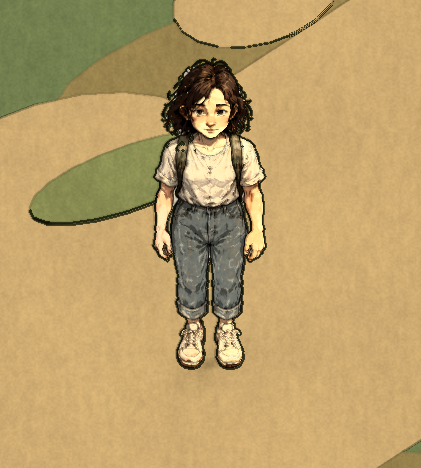
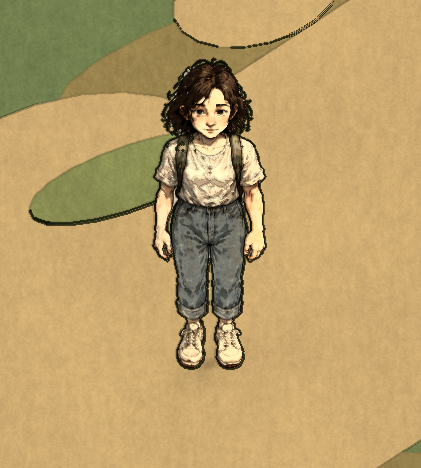
D-24 закрыта: кадры площади после перекраски front_0, D11HeroViewTests 17/17, D25MotionTests 14/14, критик ГОДИТСЯ (лист — круг 5, кадр — круг 3); стиль — один блок в style-bible (tools/art/style.py) во всех промптах, без запекания эффектов; d25_frames metrics: проскальзывание опоры, чередование ног

diff --git a/tools/art/d25_frames.py b/tools/art/d25_frames.py
@@ -8,7 +8,7 @@
     d25_frames.py sheet SHEET.png OUT [--n 8] [--stand 0]
         лист фаз (серый фон, маска keymask рядом): фигура stand — стоит (опора масштаба), остальные — фазы цикла;
         по горизонтали кадры выравниваются по корпусу (центр бёдер), по вертикали — по общей линии земли листа.
-    d25_frames.py metrics DIR [--label L]          # замер готовых кадров DIR/*.png (общий холст)
+    d25_frames.py metrics DIR [--label L] [--stride-m 1.7]   # замер готовых кадров DIR/*.png (общий холст) + проверки LIMITS
     d25_frames.py strip DIR OUT.png [--gif OUT.gif] # склейка на светлом/тёмном + GIF (12 к/с)
 
 Замер (на холсте 320 px/м): «опора» — (1) разброс по X центра корпуса (строки 30–55 % роста), (2) разброс по Y нижней
@@ -226,8 +226,29 @@ def load_dir(d):
     return fs, [np.asarray(Image.open(f).convert('RGBA')).astype(np.float32) / 255 for f in fs]
 
 
-def metrics(d, label=''):
+LIMITS = {  # пороги проверки набора до коммита (D-25 п. 2 и ref2game-review)
+    'hip_x_range_px': 2, 'ground_y_range_px': 2, 'slip_px_max': 2, 'half_iou_min': 0.7, 'limp_asym_max': 0.15, 'seam_ratio_max': 1.5}
+
+
+def feet(s):
+    """Опора кадра (бок, лицом вправо): x точки касания (середина нижних 2 % силуэта), разнос стоп (ширина нижних 6 %)."""
+    rows = np.where(s.any(1))[0]; h = rows[-1] - rows[0]
+    low = s[rows[-1] - max(2, int(0.02 * h)): rows[-1] + 1]
+    band = s[rows[-1] - int(0.06 * h): rows[-1] + 1]
+    xs, bx = np.where(low.any(0))[0], np.where(band.any(0))[0]
+    return float(xs.mean()), float(bx[-1] - bx[0])
+
+
+def metrics(d, label='', stride_m=None):
+    """Замер набора кадров цикла на общем холсте. Кроме опоры и IoU соседних:
+    проскальзывание — опорная стопа в игре должна уходить назад на stride·PPM/N px за кадр (персонаж идёт вперёд с этой
+      скоростью): |Δx + E| по парам опорных кадров одной стопы; фактическая длина цикла — по среднему уходу опоры;
+    чередование ног — IoU силуэтов кадров через полцикла (ноги меняются местами — силуэт сбоку почти тот же; «ходит одна
+      нога» даёт низкий IoU);
+    хромота — асимметрия наибольшего разноса стоп в первом и втором полуцикле;
+    шов цикла — (1 − IoU последнего и первого) к среднему (1 − IoU) соседних внутри цикла."""
     fs, fr = load_dir(d)
+    n = len(fr)
     sils = [silhouette(p) for p in fr]
     hip, low, heights = [], [], []
     for s in sils:
@@ -237,12 +258,34 @@ def metrics(d, label=''):
         hip.append(float(np.mean(np.where(band)[1])))
         low.append(int(rows[-1])); heights.append(int(h))
     med = np.median(low)
-    stance = [l for l in low if l >= med - 3]
-    ious = [iou(sils[i], sils[(i + 1) % len(sils)]) for i in range(len(sils))]
-    res = {'label': label, 'frames': len(fr), 'hip_x_range_px': round(max(hip) - min(hip), 1),
-           'ground_y_range_px': int(max(stance) - min(stance)), 'flight_frames': len(low) - len(stance),
+    st = [l >= med - 3 for l in low]
+    stance = [l for l, x in zip(low, st) if x]
+    ious = [iou(sils[i], sils[(i + 1) % n]) for i in range(n)]
+    res = {'label': label, 'frames': n, 'hip_x_range_px': round(max(hip) - min(hip), 1),
+           'ground_y_range_px': int(max(stance) - min(stance)), 'flight_frames': n - len(stance),
            'iou_adjacent_mean': round(float(np.mean(ious)), 3), 'iou_adjacent_min': round(float(min(ious)), 3),
            'iou_adjacent': [round(x, 3) for x in ious], 'height_px_range': [min(heights), max(heights)]}
+    cx, spread = zip(*[feet(s) for s in sils])
+    back = [cx[(i + 1) % n] - cx[i] for i in range(n) if st[i] and st[(i + 1) % n] and cx[(i + 1) % n] - cx[i] <= 0]
+    if back:
+        res['stance_back_px_per_frame'] = round(-float(np.mean(back)), 1)
+        res['cycle_m_from_feet'] = round(-float(np.mean(back)) * n / PPM, 2)
+        if stride_m:
+            e = stride_m * PPM / n
+            res['slip_px_mean'] = round(float(np.mean([abs(b + e) for b in back])), 1)
+            res['slip_px_max'] = round(float(max(abs(b + e) for b in back)), 1)
+    if n % 2 == 0:
+        res['half_iou_min'] = round(float(min(iou(sils[i], sils[(i + n // 2) % n]) for i in range(n))), 3)
+        a, b = max(spread[:n // 2]), max(spread[n // 2:])
+        res['limp_asym'] = round(abs(a - b) / ((a + b) / 2), 3)
+    inner = [1 - x for x in ious[:-1]]
+    res['seam_ratio'] = round((1 - ious[-1]) / max(1e-6, float(np.mean(inner))), 2)
+    checks = {}
+    for k, lim in LIMITS.items():
+        if k in res:
+            ok = res[k] >= lim if k.endswith('_min') else res[k] <= lim
+            checks[k] = 'ok' if ok else f'НЕТ ({res[k]} vs {lim})'
+    res['checks'] = checks
     (pathlib.Path(d) / 'metrics.json').write_text(json.dumps(res, ensure_ascii=False, indent=1), encoding='utf-8')
     print(json.dumps({k: v for k, v in res.items() if k != 'iou_adjacent'}, ensure_ascii=False))
     return res
@@ -279,11 +322,11 @@ def main():
     v.add_argument('--cycle-height-px', type=float, help='медиана роста кадров цикла, px при 320 px/м (если ролик не со стойки)')
     s = sub.add_parser('sheet'); s.add_argument('sheet'); s.add_argument('out'); s.add_argument('--n', type=int, default=8)
     s.add_argument('--stand', type=int, default=0); s.add_argument('--height-m', type=float, default=1.65); s.add_argument('--label')
-    m = sub.add_parser('metrics'); m.add_argument('dir'); m.add_argument('--label', default='')
+    m = sub.add_parser('metrics'); m.add_argument('dir'); m.add_argument('--label', default=''); m.add_argument('--stride-m', type=float, help='длина цикла в игре, м (characters.json strideMeters)')
     t = sub.add_parser('strip'); t.add_argument('dir'); t.add_argument('png'); t.add_argument('--gif')
     t.add_argument('--k', type=float, default=0.5); t.add_argument('--fps', type=float, default=12)
     a = ap.parse_args()
-    {'video': cmd_video, 'sheet': cmd_sheet, 'metrics': lambda a: metrics(a.dir, a.label), 'strip': cmd_strip}[a.cmd](a)
+    {'video': cmd_video, 'sheet': cmd_sheet, 'metrics': lambda a: metrics(a.dir, a.label, a.stride_m), 'strip': cmd_strip}[a.cmd](a)
 
 
 if __name__ == '__main__':

diff --git a/tools/art/d25_prompts.py b/tools/art/d25_prompts.py
@@ -1,0 +1,49 @@
+#!/usr/bin/env python3
+"""D-25: промпты роликов и кадров анимации — движение + дословный блок стиля из style-bible (`tools/art/style.py`).
+
+    d25_prompts.py              # переписать tools/art/d25/*.txt (кроме листа GPT — его собирает d24_heroine/gen_sheets)
+"""
+import pathlib, sys
+
+HERE = pathlib.Path(__file__).parent
+sys.path.insert(0, str(HERE))
+import style  # noqa: E402
+
+KEEP = ('Keep exactly the same character, clothes, colors, proportions and size as in the first frame; the drawing must stay '
+        'identical in manner to the first frame. Flat 2D hand-drawn animation, not 3D, no lighting changes. Static locked camera: '
+        'no zoom, no pan, no camera shake, no camera motion. No sound.')
+
+MOTIONS = {
+    'run-side': ('The drawn young woman from the image does a light, easy jogging cycle IN PLACE, seen strictly from the side (profile '
+                 'facing right): a relaxed run, legs and arms swinging in opposite phase, a small bounce, as if on a treadmill. She stays '
+                 'on exactly the same spot in the middle of the frame, does not move forward, does not turn, does not leave the frame.'),
+    'run-side-wan': ('2D hand-drawn animation. From the very first frame the young woman jogs in place with a steady, brisk running '
+                     'cadence: a continuous light jog cycle seen strictly from the side (profile facing right), knees lifting, legs and '
+                     'arms swinging in opposite phase, a small bounce at every step, about two steps per second. She stays on exactly '
+                     'the same spot in the middle of the frame, never moves forward, never turns.'),
+    'walk-side-wan': ('2D hand-drawn animation. From the very first frame the woman walks in place with a calm, steady walking cadence: '
+                      'a continuous walk cycle seen strictly from the side (profile facing right), legs stepping and arms swinging gently '
+                      'in opposite phase, about two steps per second. She stays on exactly the same spot in the middle of the frame, '
+                      'never moves forward, never turns.'),
+}
+BETWEEN = ('The two reference images are two key frames of a hand-drawn 2D animation of the same young woman jogging in place, seen '
+           'strictly from the side, facing right. Draw the ONE in-between frame exactly halfway between the first and the second key '
+           'pose: legs and arms halfway between their positions in the two keys, the body at the same place and the same size, the feet '
+           'on the same ground line. The same woman, clothes, backpack and colors.')
+
+
+def video_prompt(motion):
+    return ' '.join([motion, KEEP, style.STYLE, style.BG_GREEN])
+
+
+def main():
+    out = HERE / 'd25'
+    out.mkdir(exist_ok=True)
+    for name, m in MOTIONS.items():
+        (out / f'{name}.txt').write_text(video_prompt(m) + '\n', encoding='utf-8')
+    (out / 'klein-between.txt').write_text(' '.join([BETWEEN, style.STYLE, style.BG_GREY]) + '\n', encoding='utf-8')
+    print('ok', len(MOTIONS) + 1)
+
+
+if __name__ == '__main__':
+    main()

diff --git a/tools/art/gen_sheets.py b/tools/art/gen_sheets.py
@@ -16,6 +16,9 @@
 """
 import argparse, json, os, pathlib, subprocess, sys
 
+sys.path.insert(0, str(pathlib.Path(__file__).parent))
+import style  # noqa: E402
+
 HERE = pathlib.Path(__file__).parent
 CFG = json.loads((HERE / 'sprites.json').read_text(encoding='utf-8'))
 SEL = json.loads((HERE / 'selection.json').read_text(encoding='utf-8'))
@@ -26,10 +29,7 @@ CAMERA = ("Camera: HIGH ANGLE, the same for every drawing. The viewer stands abo
           "foreshortened toward the feet, and the feet are seen from above.")
 CAMERA_ANIMAL = ("Camera: HIGH ANGLE, the same for every drawing. The viewer stands above and looks down at about 30 degrees, like the camera "
                  "of an isometric top-down game (Don't Starve): the back and the top of the head are seen from above.")
-STYLE = ("Art style: hand-drawn storybook illustration made with a dip pen and watercolor — uneven brown-black ink outlines with a bit of "
-         "scratchy hatching, loose transparent watercolor washes, muted warm earthy palette (ochre, olive, umber, rust, dusty red), slightly "
-         "exaggerated whimsical proportions in the spirit of Don't Starve. Flat even light, no cast shadows, no ground, plain flat uniform "
-         "light grey background. No text, no labels, no numbers, no logos, no watermark, no signature, no frame.")
+STYLE = style.STYLE + ' ' + style.BG_GREY  # единственный источник — docs/demo/sprites/style-bible.md (tools/art/style.py)
 STYLE_REF = ("The reference image shows a DIFFERENT character (the game's heroine). Use it ONLY for the art style, line work, watercolor "
              "texture, palette, camera angle and scale (an adult of about 1.65 m is drawn as tall as she is); do NOT copy her face, hair, "
              "clothes or backpack.")

diff --git a/tools/art/style.py b/tools/art/style.py
@@ -1,0 +1,25 @@
+#!/usr/bin/env python3
+"""Блок стиля для всех промптов генерации — единственный источник: `docs/demo/sprites/style-bible.md`
+(огороженные блоки ```style-prompt```, ```bg-grey```, ```bg-green```). Вставлять дословно.
+
+    from style import STYLE, BG_GREY, BG_GREEN
+    python3 tools/art/style.py            # напечатать блоки
+"""
+import pathlib, re
+
+BIBLE = pathlib.Path(__file__).resolve().parents[2] / 'docs/demo/sprites/style-bible.md'
+
+
+def block(name: str) -> str:
+    m = re.search(r'```' + re.escape(name) + r'\n(.*?)\n```', BIBLE.read_text(encoding='utf-8'), re.S)
+    if not m:
+        raise KeyError(f'нет блока {name} в {BIBLE}')
+    return ' '.join(m.group(1).split())
+
+
+STYLE = block('style-prompt')
+BG_GREY = block('bg-grey')
+BG_GREEN = block('bg-green')
+
+if __name__ == '__main__':
+    print(STYLE, BG_GREY, BG_GREEN, sep='\n\n')

diff --git a/tools/art/icon_build.py b/tools/art/icon_build.py
@@ -12,6 +12,8 @@
 Сетка: предметы 4×3, разговор 5×2. Иконки разговора лежат как `talk_<id>.png`: id map/coin/hammer/letter/locket есть и у предметов, а картинки разные.
 """
 import json, pathlib, sys
+sys.path.insert(0, str(pathlib.Path(__file__).parent))
+import style  # noqa: E402  (docs/demo/sprites/style-bible.md)
 
 import numpy as np
 from PIL import Image, ImageDraw
@@ -37,7 +39,7 @@ def groups():
 
 def prompt(g, cols, rows):
     lst = '; '.join(f'{i + 1}) {CFG["items" if k == "item" else "talk"][x]}' for i, (k, x) in enumerate(g))
-    return CFG['sheet'].format(n=len(g), cols=cols, rows=rows, list=lst) + ' ' + CFG['style'] + \
+    return CFG['sheet'].format(n=len(g), cols=cols, rows=rows, list=lst) + ' ' + style.STYLE + ' ' + style.BG_GREY + \
         ' The reference image shows a character from the same game: use it only for the art style, ink line and palette.'
 
 

diff --git a/docs/demo/decisions.md b/docs/demo/decisions.md
@@ -58,6 +58,8 @@
 | D-25 код | 2026-10-08 | **Код под дорисованные кадры, без процедурного движения.** (1) Кадр шага — `CharacterSpriteSet.StepFrame(N, шаг, путь)`: до 3 кадров — по всем (как в D-09), от 4 — кадр 0 только стоя, цикл 1…N−1; (2) переходы кадрами из `poses`: `turn_<из>_<в>` (обратный играется задом наперёд, нет — картинка сразу), `start_<вид>`, `stop_<вид>`, `idle_<вид>` по кругу с фазой по id и месту; (3) позы — любое число кадров по фазе действия, `HeroView` отдаёт `fall` (0,3 с) и `getup` (0,45 с) — кадры, если есть, иначе поза кодом; (4) длительности — в `SpriteLook` (0,12 / 0,12 / 0,15 / 0,3 с); (5) формат — `docs/demo/sprites/README.md`, ключи `poses` без правки сборщика реестра; (5а) длина цикла шага — в реестре по персонажу, не 0,8 у всех (0,8 м на цикл = 375 шагов/мин, ноги семенили): жители 1,4, героиня 1,7, кабан 1,2, волк 1,6; тест на темп (90–190 шагов/мин) читает реестр; порядок кадров набора из 3 — 1→0→2→0; героиня на беге 5 м/с при цикле 1,7 даёт ≈ 350 шагов/мин — длину цикла бега решает арт (отдельный цикл бега) или скорость; (5б) `HeroView` ставит глобальный `_ZD_HeroPos` (xyz у стоп) — интерфейс для шейдеров травы и света на billboard; сами шейдеры не трогал (трава — D-22b); (6) ключи ищутся без строк в кадре, аллокации 0 (`D25MotionTests`); процедурный слой (дыхание, сжатие, разворот сжатием, отдача) написан, снят кадрами и убран до коммита. | Слово автора; формат — один словарь `poses`, что уже читает сборщик. | Отдельные поля реестра на каждый вид кадров |
 | D-25 арт | 2026-10-08 | **Способ дорисовки кадров — ролик видео-модели с утверждённого кадра 0 на зелёном фоне** (конвейер координатора по примеру автора), выбор пилотом на беге героини боком: **Seedance 2 mini 720p** (IoU соседних 0,77 на 12 кадрах, опора 0,1/1 px после выравнивания, персонаж держится — критик: «лучший, манера та же») против Grok Imagine Video (0,58, персонаж плывёт), листа 8 фаз GPT Image (0,57, «марш»), Klein «кадр посередине» на ПК (не лучше повтора ключа) и **Wan 2.2 TI2V 5B на ПК** (0,84 при малой амплитуде, линия ближе к спрайту, движение вялое; 0 ₽, 225 с GPU на ролик). Seedance 2.5 не пробовали: 75,6 ₽ за 4 с 480p при балансе 52 ₽. Кадры: полный цикл (период по силуэту и цвету), выравнивание корпуса и опоры кодом (снимает ведение камеры, кадры по отдельности не центрируются), один цветовой перенос на цикл к `side_0`. В игре бок героини — 12 кадров. **Цена всего набора** (≈ 66 роликов: героиня 15 — idle ×3, бег ×3, удар, подбор, еда, боль, падение, подъём, повороты ×3; жители 9 × 4 + 5 жестов; звери 2 × 5): Seedance 2 mini 720p ≈ 1460 ₽ (только героиня ≈ 330 ₽), 480p ≈ 680 ₽, Seedance 2.5 480p ≈ 4990 ₽, Wan на ПК ≈ 4 ч видеокарты, 0 ₽. **Рекомендация:** всё — Seedance 2 mini: героиня 720p (≈ 310 ₽ на оставшиеся 14 роликов), жители и звери 480p (≈ 51 × 10,3 ≈ 525 ₽; сначала один житель 480p на пробу — 10 ₽), итого ≈ 840 ₽; Wan 2.2 5B на ПК — **не основной путь**: проба на горожанке (ходьба) дала стоящую фигуру с поднятой рукой, на героине — вялый цикл (1 удача из 2); каждый набор — замер `d25_frames.py metrics` и критик. Polza D-25: 38,2 ₽. | Замер + критик; цена при балансе 52 ₽; локальный путь бесплатен. | Grok (дешевле, персонаж плывёт); лист GPT; Klein «посередине»; Seedance 2.5 (×3,4 дороже mini); Wan на ПК (бесплатно, но 1 цикл из 2 проб и тот вялый) |
 | D-25 арт | 2026-10-08 | **Темп и бег.** Героиня идёт 2,5 м/с (`movement.json walkSpeed`) — рисуем лёгкий бег, цикл 1,7 м (≈ 176 шагов/мин). Режим бега 5 м/с (`runSpeed`, свайп с силой ≥ 0,7 — апрельское правило) — **тот же нарисованный цикл**, длина цикла ≈ 3,0 м (1,67 цикла/с ≈ 200 шагов/мин — темп спринта); отдельный цикл `run_<вид>` в `poses` — необязательный, если позже нарисуем спринт (код: есть `run_<вид>` — берёт его, нет — цикл шага с длиной бега). | Один ролик на ракурс вместо двух; темп в норме спринта. | Отдельный спринт сейчас (+3 ролика ≈ 66 ₽); снизить скорость в данных (баланс G2) |
+| D-24/D-25 стиль | 2026-10-08 | **Один блок стиля для всех генераций** — `docs/demo/sprites/style-bible.md` (огороженные блоки `style-prompt`, `bg-grey`, `bg-green`), скрипты берут его через `tools/art/style.py` и вставляют дословно: `gen_sheets.py` (персонажи, D-24), `icon_build.py`, `veg_build.py` (трава D-22b: было «sepia-olive ink», теперь общий текст + строка «тоньше линия, без земли»), промпты роликов `d25_prompts.py` → `tools/art/d25/*.txt`; поле `style` в `sprites.json`/`icons.json`/`vegetation.json` — ссылка на style-bible. В блок вошло правило «не рисовать свечение, лучи, огонь, дым, туман, воду — их рисует движок». | Разбор ref2game: стиль в трёх местах по-разному. | Оставить формулировки по скриптам |
+| D-25 арт | 2026-10-08 | **Проверки набора кадров до коммита** (`d25_frames.py metrics --stride-m`, пороги `LIMITS`): корпус X ≤ 2 px, земля Y ≤ 2 px, проскальзывание опорной стопы ≤ 2 px/кадр (опора в игре должна уходить назад на strideMeters·320/N px за кадр), чередование ног — IoU силуэтов через полцикла ≥ 0,7, хромота — асимметрия разноса стоп полуциклов ≤ 0,15, шов цикла — (1 − IoU последний→первый) ≤ 1,5 × среднего соседних. **Бег героини боком (12 кадров):** корпус 0,1, земля 1, полцикла 0,81, хромота 0,13, шов 0,72 — проходит; **проскальзывание — нет:** опора в ролике уходит назад на 25,6 px/кадр, т. е. ролик «бежит» с циклом 0,96 м, а в игре цикл 1,7 м (45 px/кадр) — стопа скользит ≈ 21 px/кадр (≈ 6,5 см). Сгладить: strideMeters ближе к 1,0–1,2 (чаще шаг, ≈ 250–300 шагов/мин при 2,5 м/с) или в промпте ролика длиннее шаг («long stride jog»); решение по темпу — за кодом D-25/автором, числа здесь. | Ловит «ходит одна нога», хромоту, шов и скольжение до игры. | Только IoU соседних и опора |
 | D-23 | 2026-10-08 | **Игровая петля демо (баланс; числа — в `data/*.json`).** (1) **Карта по карману:** `map.value` 30 → 24 (цена 30 монет; торговец продаёт за value × 1,25), `traders.json typicalRound` — что приносит обычный час игры: три поручения (письмо 3 + ягоды 4 + медальон 6 = 13 монет), **один** кабан, разделанный ножом (в регионе один кабан — второго нет, `Killed` не воскрешает; на мёртвой голове клык + шкура + мясо + кость + жир ≈ 20 монет у торговца-продавца карты), и собранное по дороге (камни, травы, особая трава). Тест `D23Tests`: поручения + кабан ≥ цены карты, и **у одного торговца** (без обхода города), с собранным — ≥ 1,5 × цены; без ножа и поручений карта далеко (клык = 3 монеты) — нож (кузнец или руда на наковальню) нужен. Сценарный проход D-19 больше **не подбрасывает 14 клыков**: собирает камни/травы/медальон, сдаёт медальон старику, куёт нож, разделывает кабана, меняет 3 камня на палку (первый бартер), слушает урок монет и платит за карту монетами и добычей. Оценка «≈ 30–60 мин» — без замера времени (нужен телефон, G1/G2). (2) **Огонь против волков:** новый блок `enemies.json fire`: горящий костёр отпугивает волка в радиусе **9 м** (= свет костра `camp.json lightRadius`: волк не стоит в свете), факел героини — **5 м** (≈ 2 шага; факел светит меньше костра); радиусы сжимаются вместе с гаснущим огнём. Попавший в радиус волк убегает от огня (×1,25 chaseSpeed = 5 м/с = бег героини) до края + 1 м, не дольше 4 с, и снова подходит к границе света — стоит у края (кадр). Кабан огня не боится (`fearsFire` только у волка). Замах волка прерывается, если огонь дотянулся. (3) **Факел догорает:** `camp.json torchBurnSeconds` 180 с реального времени (3 мин — от костра до костра, но не вся ночь ≈ 7–10 мин), в дождь вдвое быстрее, последние 20 с свет слабеет (интенсивность, дальность, пламя, радиус страха волка), потом факел уходит из сумки и остаётся **«обгоревшая палка»** (`burnt_stick`, ценность 0, в костёр — топливо на 20 с); состояние факела сохраняется (`TorchLeft`, версия сохранения прежняя — поле необязательное). (4) **Ночной волк:** появляется на кольце **20–35 м** от героини (равномерно по площади), не в городе (`safeAreas`: круг 55 м вокруг `town_square`), не вне земли (`bounds` 360×200 минус 5 м), не в свете костра, не в стене/воде; сразу идёт на неё (`Enemy.Hunt`: не бросает погоню на пути; `stalkMeters` 50) и без огня замахивается за 5–9 с. Утром (daylight ≥ 0,4): дальний (> `despawnDistance` 18 м) исчезает, ближний уходит пешком (`Enemy.Dismiss`) и исчезает, отойдя на 18 м. Зоны `zone_wolves_*` больше не нужны — маркеры остаются в сцене (файл D-22b). (5) **Описания предметов:** `items.json description` у всех 37 предметов (живой русский, без цифр, ≤ 160 знаков — проверка загрузки данных; тексты писал агент, content-writer не вызывался); долгий тап по ячейке сумки (`input.json longPressSeconds` 0,5 с, палец стоит) — облачко над ячейкой «Название. Описание», висит `session.json itemInfoSeconds` 4 с. (6) **«Спасибо» при сдаче:** уже работало (D-12, `quests.json thanks`, узлы `thanks_*` с «спасибо» в тексте и иконками по этапу языка); проверка загрузки теперь требует узла-благодарности, тест ядра — «спасибо» в тексте и награду в сумке, PlayMode — реплику в облачке NPC. (7) **Реплики героини — 6 новых ситуаций** (`remarks.json`): `wolf_close` (хищник ближе `predatorFearMeters` 25 м), `wolf_flees` (волк побежал от огня), `torch_dying` (факел слабеет), `rain`, `first_purchase` (первая вещь с полки), `sated` (наелась — голод был, стал Fed); по 3–4 строки, паузы и «без повтора подряд» — прежние правила `Remarks`. | Проход D-19: карту не купить честно, волк далеко и не страшен, огонь его не отпугивает, факел вечный, долгий тап пуст. Числа — оценка агента (баланс G2), автор может сдвинуть любое после показа. | Цену карты не менять и добавить второго кабана (правка сцены D-22b); волка пугать только в городе; факел гаснет «по ощущению» (случайно); описания брать из content-writer |
 | D-22b | 2026-10-08 | **Регион по концепту, второй заход (вердикт координатора по кадрам D-22 — ПЕРЕДЕЛАТЬ).** (1) **Земля — один материал, без геометрии сверху:** диски-цилиндры (пятна тона, кромка дороги, булыжник) и ленты дорог убраны — ступенька 2 см ловила пунктир пера и читалась бумажными кружками. Ядро `GroundMask` печёт из конфига текстуру знаковых расстояний (R дороги, G зоны `paved`, B вода, A зоны `field`; 0,4 м/тексель, ±4 м в байте), `Zelda/Toon` с `_ZD_GROUND` рисует по ней и по бесшовному шуму (`tools/art/ground_noise.py`, без нейросети): трава тремя тонами пятнами + мелкая мозаика, песчаная дорога с рваной кромкой (шум двух масштабов), тёмный ободок, булыжник площади (ячейки Вороного), сырой берег, пашня. `_ZD_Wetness` и туман — как у всех. Вода — по-прежнему лента (вторично). (2) **Трава, цветы, кусты, папоротник, тростник — акварельные billboard-спрайты** (ADR-0001, как персонажи): 3 листа GPT Image 2.5 через Polza (19 спрайтов, атлас 2048×512, 200 px/м, `tools/art/veg_build.py`); data-URL референс шлюз теперь отвергает («File type not supported») — стилевой референс лист героини по URL. Карточка повёрнута к камере целиком, нормаль вверх (свет как у земли, контур только по силуэту). Россыпь сливается в один меш на участок 24×24 м (≈ 13 тыс. карточек, ≈ 52 тыс. вершин, без GameObject на кустик), клетки огня и травы-пикапы — карточки-объекты. Kenney-трава и цветы в россыпях региона не используются; деревья, камни, камешки у дороги — модели. (3) **Масштаб:** карточка героини повёрнута к камере, её высота на экране — полные 1,67 м, а не × cos 35° (так считали тесты D-22): при size 6,3 героиня была 1/7,5 кадра → size 7,5 (1/9), тесты меряют карточку. Дорога 3 → 2,4 м (концепт f1: ≈ 4 ширины героини). (4) Polza: 25 ₽ (проба 4 ₽ + 3 листа по 7 ₽). |
 | D-20 | 2026-10-08 | **Демо не показываем, пока игра не похожа на концепты и анимации не нормальные** (слово автора). Ворота — в `docs/done-criteria/D-20.md`: склейки «сборка | концепт» по всем местам `world-b` + критик; героиня D-24; анимации D-25. | Автор: «пока ты не сделаешь похоже — нельзя считать работу выполненной». | Показать как есть с известными проблемами |

diff --git a/docs/demo/sprites/README.md b/docs/demo/sprites/README.md
@@ -170,7 +170,8 @@ python3 tools/art/ground_noise.py              # шум земли (детерм
 - **Сравнение** — `D-24-lineup.png`: старая, варианты A/B/C (сырые листы, нормализованы к 1,65 м), итог D, три взрослые жительницы; под фигурой голова/рост (красная черта — подбородок) и ширина/рост.
 - **Варианты** (`tools/art/d24_heroine.py`, GPT Image 2.5 flare, 2K 21:9, промпт D-09 + «манера жителей»): A — референсы горожанка + ткачиха + старая героиня (только одежда); B — крестьянин + горожанка + старая, «нажим» карикатуры; C — горожанка + ткачиха + крестьянин, одежда только словами. B — ребёнок (огромные глаза и кеды); A и C — в манере, C ближе к жителям по ширине и стопам — выбран, но критик (круг 1): анфас читается подростком (круглое лицо, крупные глаза, румянец), волосы светлее и короче паспорта. **D** (круг 2): «young adult ~24, oval face, defined jaw, visible neck, almond eyes, no blush circles, dark brown almost black shoulder-length waves», референсы ткачиха (взрослое лицо) + горожанка + черновик C (одежда); позы — замах строго боком, боль без слёз, еда без крошек. Замах (attack_0) вышел снова в 3/4 — перерисован отдельной картинкой 1K «стоит боком + замах» (масштаб — по стоящей фигуре = side_0).
 - **Правки кодом** (`sprite_build.py`, флаги в `selection.json`): `skin` — «гипсовая» рука (модель оставила кисть без цвета) перекрашивается в медиану кожи кадра с той же светлотой (front_1, side_1, side_2); `deblush` — румянец на щеках сведён к цвету кожи на 55 % (front_*, eat, hurt); `grey_pockets` — серые «карманы» фона между завитками и их светлая кайма — прозрачные, мелкие золотистые блики в волосах — цвет локальной медианы волос; `despeck`, `alpha_floor`, `erase` — блики на рюкзаке, полупрозрачный след и тень на земле у подбора; `post_color_match` front_0 → front_1 (одежда одного тона со шагом), `post_hair_match` pickup → front_0. В `cutout` дыра внутри силуэта снимается как «окно фона», только если по её краю ≥ 35 % туши (`INK_RING`): бледные пятна акварели на джинсах больше не дырявят ткань. `registry` теперь сохраняет прочие поля записи (раньше терял `poses`).
-- **Известное:** кадры шага боком 1 и 2 — в одной фазе (как у NPC; цикл заменит D-25); подбор нарисован в 3/4 и с оборкой на рукаве, имя `front_pickup_0` прежнее ради реестра.
+- **Известное:** подбор нарисован в 3/4 и с оборкой на рукаве, имя `front_pickup_0` прежнее ради реестра; у `front_0` светлые пятна на футболке крупнее, чем у шага (тон тот же — критик: «лёгкое мерцание ткани», переделку не требует); в pickup два-три светлых крапа на клапане и лёгкая дымка у колена (2–5 px в игре). Бок 1…12 — цикл бега D-25.
+- **Критик кадров** (`critic.md`, раздел D-24): лайнап и `all.png` — ГОДИТСЯ (круг 2), кадр из игры — ГОДИТСЯ (круг 3), лист — ГОДИТСЯ (круг 5). Правки между кругами — `canvas_fix`, `mask_match` (перенос цвета по квантилям Lab по маскам футболки, кожи, джинсов), `post_mask_match` в `selection.json`.
 - **Расход Polza на D-24: 46 ₽** (лимит 40 ₽, превышение — круг 2 по замечанию критика): варианты A/B/C 21 ₽, позы C 7 ₽, вариант D (лист + позы) 14 ₽, замах 1K 4 ₽. Все запросы — в `sources.json` (`task: D-24`, `used`).
 
 ```bash

diff --git a/docs/demo/sprites/style-bible.md b/docs/demo/sprites/style-bible.md
@@ -6,6 +6,26 @@
 - **Ростовка всех персонажей** — `docs/demo/sprites/all.png` (кадр 0 к камере и бок, после D-24). Новую генерацию сверять с ней, а не с листом одного героя.
 - Референсы для запроса: сырой лист самого персонажа (кто это) + лист 1–2 жителей того же пола и возраста (манера). Полный список листов и URL — `docs/demo/sprites/sources.json`.
 
+## Блок стиля для промптов (единственный источник)
+
+Вставляется **дословно** в каждый промпт генерации (персонажи, позы, иконки, растительность, ролики анимации): скрипты берут его отсюда через `tools/art/style.py` (`STYLE`, `BG_GREY`, `BG_GREEN`). Менять стиль — только здесь; другие формулировки в `tools/art/` запрещены.
+
+```style-prompt
+Art style: hand-drawn storybook illustration made with a dip pen and watercolor — uneven brown-black ink outlines with a little scratchy hatching, loose transparent watercolor washes with soft blooms and a little paper grain, muted warm earthy palette (ochre, olive green, sage, umber, rust, dusty red, dusty lilac), slightly exaggerated whimsical proportions in the spirit of Don't Starve. Flat even light, no cast shadows. Do not paint glow, light rays, fire, smoke, mist or water effects into the picture — the game engine draws them. No text, no letters, no numbers, no logos, no watermark, no signature, no frame.
+```
+
+Фон — по назначению, тоже дословно:
+
+```bg-grey
+Plain flat uniform light grey background (#c8c8c8), no ground patch, no soil, nothing under the feet.
+```
+
+```bg-green
+Flat plain uniform bright green chroma-key background (#00B140), no ground, no shadow, nothing else in the frame.
+```
+
+**Не запекать в картинку:** свечение, лучи, огонь, дым, туман, воду, отражения — это эффекты движка (частицы, шейдеры, свет). Факел/костёр в руках и сцене — без пламени на рисунке.
+
 ## Камера и масштаб
 - Игра: ортокамера, наклон 35°, поворот 45°, size 7,5 (`scenes/region.json`); героиня ≈ 1/9 высоты кадра.
 - Рисунок: «HIGH ANGLE ~30°, как в изометрической игре (Don't Starve)» — видны макушка и плечи сверху, стопы сверху (`gen_sheets.CAMERA`).

diff --git a/plan/stage-D-demo.md b/plan/stage-D-demo.md
@@ -38,7 +38,7 @@
 - [x] D-21 Вид по концепту: контур по рёбрам, мягкие тени без «мусора» у травы, тон и контраст, ночь глубоким синим, пламя, брёвна не оранжевые
 - [ ] D-22 Регион по концепту: камера ближе (героиня ~1/9 кадра), пятна тонов земли, рваная кромка дороги с камешками, цветы, туман над лугом, дорога вокруг фонтана, без ели на площади
 - [x] D-23 Игровая петля демо: карта по карману за час игры (продажа добычи), волки боятся огня и факела, факел догорает, ночной волк рядом и нападает, описания предметов по долгому тапу, «спасибо» за поручение, реплики героини
-- [ ] D-24 Героиня в манере жителей: перерисовать (пропорции и лицо «книжной карикатуры» как у NPC D-09, та же одежда), все ракурсы, шаг и позы
+- [x] D-24 Героиня в манере жителей: перерисовать (пропорции и лицо «книжной карикатуры» как у NPC D-09, та же одежда), все ракурсы, шаг и позы — `docs/demo/sprites/D-24-lineup.png`, `heroine-sheet.png`, кадры `docs/demo/frames/D-24-square-*.png`, критик ГОДИТСЯ (лист — круг 5, кадр — круг 3), D11HeroViewTests 17/17, `docs/test-runs/2026-10-08-d24-heroine.md`
 - [ ] D-25 Плавная анимация дорисованными кадрами: шаг 8 кадров на ракурс, повороты через 3/4, удар/подбор/падение/дыхание несколькими кадрами — сначала героиня
 - [ ] D-26 Ощущение боя и управления: 60 fps, hit-stop, тряска камеры, вибрация, атака по касанию с буфером, окна уворота, угроза сбоку (камера, голос, глаза), подсказки рукой, постоянные руны, состояние двумя каналами, бюджет сборки
 - [ ] D-26b Хвосты ощущения: аллокации в простое (регрессия), проход D-19, глаза волка, видимость hit-stop/тряски, размер APK

diff --git a/docs/test-runs/2026-10-08-d24-heroine.md b/docs/test-runs/2026-10-08-d24-heroine.md
@@ -6,3 +6,8 @@
 - PlayMode `D11HeroViewTests` — **17 из 17** (67 с). Полный `ZeldaDaughter.Tests.PlayMode` — **166 из 167**: упал `W0Tests.Idle_frames_do_not_allocate` (8966 Б при пороге 512); отдельно `W0Tests` — **9 из 9** (зависит от порядка: мусор предыдущих тестов; спрайты на аллокации кадра не влияют). Первые два запуска полного прогона не стартовали («failed to initialize», «editor is in Play Mode») — `stop-play.cs` и повтор.
 - Кадры (`tools/pc/frames-d24.cs`, камера игры, 1080×2340, день): `docs/demo/frames/D-24-square-townswoman.png`, `D-24-square-old-man.png`, `D-24-square-herbalist.png` — героиня рядом с жителями; карточка героини 335 px, жителей 311–317 px из 2340. Тесты D-11 перерисовали `docs/demo/frames/D-11-*.png` новой героиней.
 - С ПК забраны `.meta` кадров бега `heroine_side_3…12` и `Characters.asset` (13 кадров бока).
+
+## Второй проход (22:52–22:58, после правок критика круга 4)
+- Клон `origin/master` `f0ef5820`; неотслеживаемого кода на ПК не было. Компиляция 0/0. Сцены: g1-capsule `c8d95781a550`, models-test `b10b5cf4ae61`, prologue-grey `76403dc7a732`, region `8fdfc45b75d6`, test-demo `92777b695195`.
+- По новому правилу («Сколько тестировать») — только свои и затронутые классы: `D11HeroViewTests` **17 из 17** (77 с), `D25MotionTests` **14 из 14** (12 с). Список классов через запятую в `zd-tests.ps1 -filter` ломает JSON при передаче через мост — запускать по одному.
+- Переснято: `docs/demo/frames/D-24-square-*.png` (футболка `front_0` в тоне шага), `D-11-*.png` (тестами D-11).

diff --git a/docs/demo/sprites/critic.md b/docs/demo/sprites/critic.md
@@ -76,3 +76,5 @@
 - **ПЕРЕДЕЛАТЬ:** футболка `front_0` на глаз серее `front_1/2` (средние совпали, тени холодные); pickup — островки у кеда и пальцев, светлые пятна на клапане рюкзака. Волосы pickup приняты. Белое в позах еды/боли/подбора тоже серее шага.
 - **Что сделано:** маска футболки — светлое малохромное в полосе торса (у `front_1` прежняя маска брала лишь часть кремовой ткани), перенос цвета — по квантилям L*, a*, b* (b* теней/света футболки `front_0` 8,7/13,7 → 11,2/14,1 при цели 12,2/14,4); то же для `eat`, `hurt`, `pickup` к `front_1`; pickup — островки: всё, что не связано с силуэтом; клапан — медиана окна 15.
 
+## Круг 5 — итог D-24
+- **Лист героини — ГОДИТСЯ.** Тон футболки `front_0` совпал с шагом (остаётся фактура пятен — «лёгкое мерцание ткани», переделку не требует); eat/hurt — в тоне шага, pickup чуть холоднее (короткая поза); два-три крапа на клапане и дымка у колена в pickup — 2–5 px в игре, на усмотрение. Бег сбоку и спина ровные. Проверить смену idle → walk на телефоне — автору.
